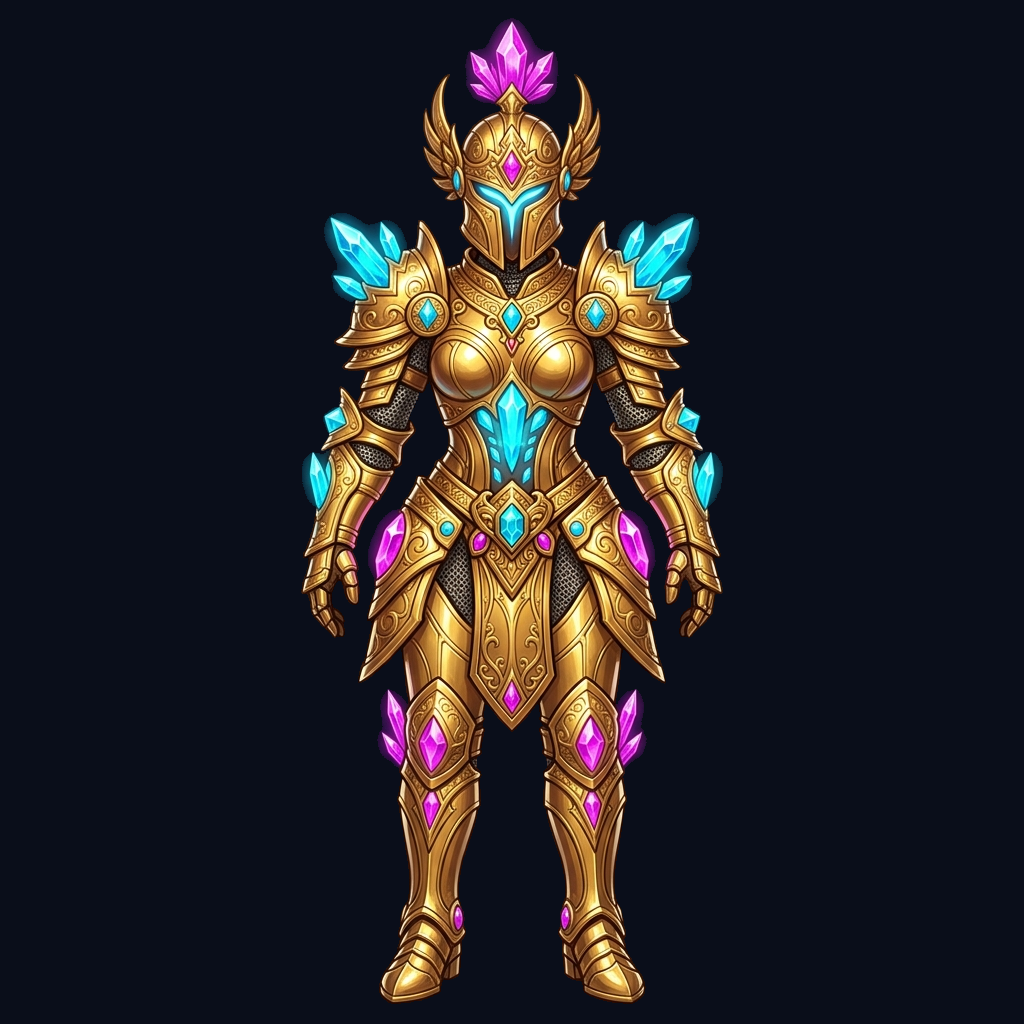
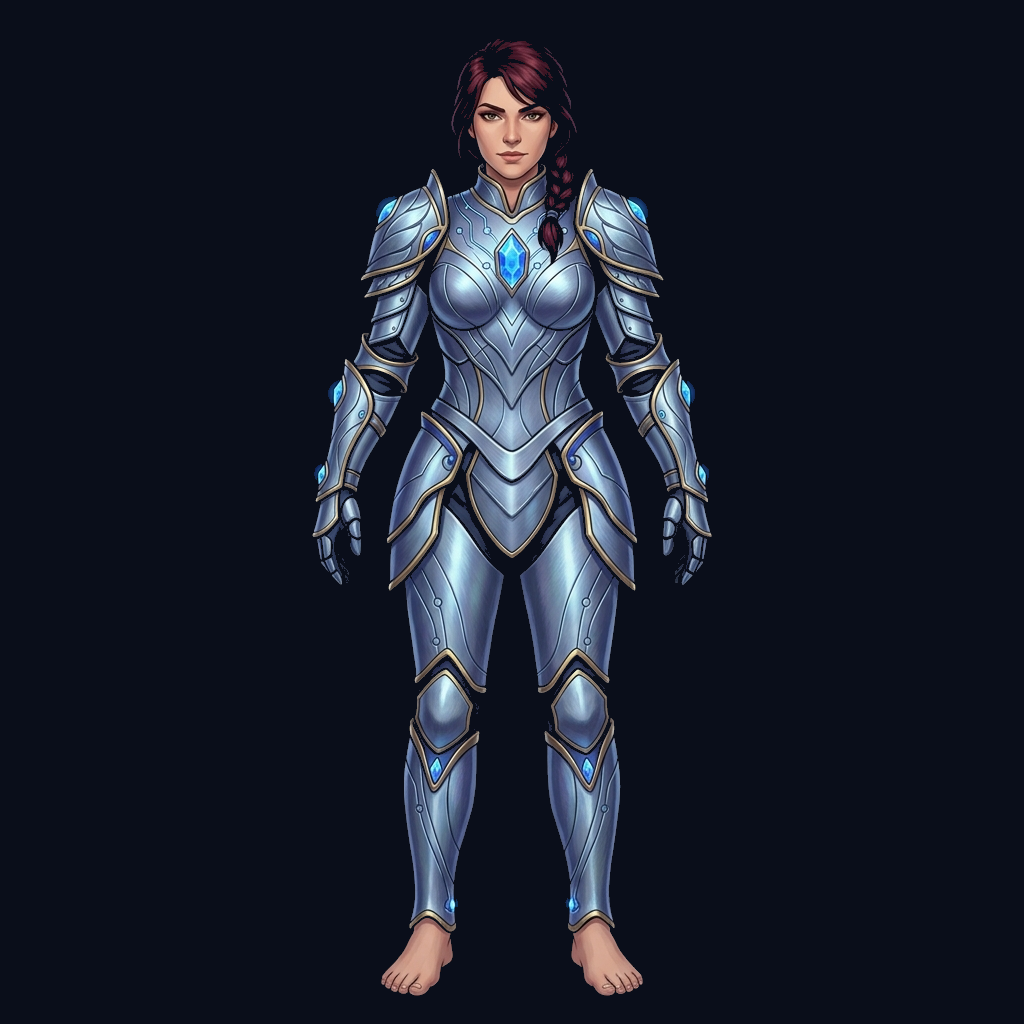
Feat/equip images fixes (#480)
* feat: redesign starter sets and swap level portraits for all characters

* feat: redesign all weapons and armors including custom female fits for Aquaria

* feat: update asset gallery armor rendering, recreate homeostase armor, and generate all remaining equipment assets

Changed region(s): [[0.2812, 0.0, 0.7188, 1.0]]

diff --git a/js/game.js b/js/game.js
@@ -1364,33 +1364,33 @@
       'Armadura Primeva':              'assets/items/armadura_primeva.png',
       'Armadura da Homeostase Perfeita':'assets/items/armadura_homeostase_perfeita.png',
       // Relíquias
-      'Anel Albuminúrico':             'assets/items/anel_albuminurico.jpg',
-      'Estetoscópio Básico':           'assets/images/estetoscopio_basico.png',
-      'Prancheta Clínica':             'assets/images/prancheta_clinica.png',
-      'Termômetro Digital':            'assets/images/termometro_digital.png',
-      'Sigilo KDIGO':                  'assets/items/sigilo_kdigo.jpg',
-      'Orbe da Cistatina':             'assets/items/orbe_cistatina.jpg',
-      'Relíquia do Título':            'assets/items/reliquia_titulo.jpg',
-      'Amuleto do Rim Imortal':        'assets/images/amuleto_rim.png',
+      'Anel Albuminúrico':             'assets/items/anel_albuminurico.png',
+      'Estetoscópio Básico':           'assets/items/estetoscopio_basico.png',
+      'Prancheta Clínica':             'assets/items/prancheta_clinica.png',
+      'Termômetro Digital':            'assets/items/termometro_digital.png',
+      'Sigilo KDIGO':                  'assets/items/sigilo_kdigo.png',
+      'Orbe da Cistatina':             'assets/items/orbe_cistatina.png',
+      'Relíquia do Título':            'assets/items/reliquia_titulo.png',
+      'Amuleto do Rim Imortal':        'assets/items/amuleto_rim.png',
       // Capacetes (Elmos / Máscaras)
-      'Touca Plissada':                'assets/images/elmo_filtrador.png',
-      'Máscara Tripla':                'assets/images/elmo_filtrador.png',
-      'Viseira Facial':                'assets/images/elmo_filtrador.png',
-      'Gorro de CTI':                  'assets/images/elmo_filtrador.png',
-      'Máscara N95':                   'assets/images/elmo_filtrador.png',
-      'Elmo do Filtrador Supremo':     'assets/images/elmo_filtrador.png',
+      'Touca Plissada':                'assets/items/touca_plissada.png',
+      'Máscara Tripla':                'assets/items/mascara_tripla.png',
+      'Viseira Facial':                'assets/items/viseira_facial.png',
+      'Gorro de CTI':                  'assets/items/gorro_cti.png',
+      'Máscara N95':                   'assets/items/mascara_n95.png',
+      'Elmo do Filtrador Supremo':     'assets/items/elmo_filtrador_supremo.png',
       // Luvas
-      'Luvas de Látex Reforçadas':     'assets/images/luvas_latex.png',
-      'Luvas Nitrílicas':              'assets/images/luvas_latex.png',
-      'Luva Estéril de Cirurgia':      'assets/images/luvas_latex.png',
-      'Manopla de Diálise':            'assets/images/luvas_latex.png',
-      'Manoplas da Homeostase':        'assets/images/luvas_latex.png',
+      'Luvas de Látex Reforçadas':     'assets/items/luvas_latex_reforcadas.png',
+      'Luvas Nitrílicas':              'assets/items/luvas_nitrilicas.png',
+      'Luva Estéril de Cirurgia':      'assets/items/luva_esteril_cirurgia.png',
+      'Manopla de Diálise':            'assets/items/manopla_dialise.png',
+      'Manoplas da Homeostase':        'assets/items/manopla_homeostase.png',
       // Botas
-      'Propés Descartáveis':           'assets/items/jaleco_plantao.jpg',
-      'Galocha de CTI':                'assets/items/jaleco_plantao.jpg',
-      'Tamanco Hospitalar':            'assets/items/jaleco_plantao.jpg',
-      'Botas da Pressão Controlada':   'assets/items/jaleco_plantao.jpg',
-      'Botas do Caminho Saudável':     'assets/items/jaleco_plantao.jpg'
+      'Propés Descartáveis':           'assets/items/propes_descartaveis.png',
+      'Galocha de CTI':                'assets/items/galocha_cti.png',
+      'Tamanco Hospitalar':            'assets/items/tamanco_hospitalar.png',
+      'Botas da Pressão Controlada':   'assets/items/botas_pressao_controlada.png',
+      'Botas do Caminho Saudável':     'assets/items/botas_caminho_saudavel.png'
     };
     const itemDescriptions = {
       "Bisturi de Plantão": "O bisturi básico de todo interno. Com ele, você corta através da confusão clínica e inicia sua jornada na nefrologia.",
@@ -1540,17 +1540,42 @@
         let cards = '';
         for (const it of items[slot]) {
           totalItems++;
-          const path = getItemIcon(it.n, slot);
+          const path = itemIcons[it.n] || defaultIcons[slot] || '';
           const r = rarMap[it.rar] || rarMap.common;
           const desc = itemDescriptions[it.n] || '<span class="ag-nodesc">(sem descrição)</span>';
           const hasIcon = !!itemIcons[it.n];
-          cards += `<div class="ag-card" style="border-color:${r.border};">${_imgTag(path, it.n)}
+
+          let imgHtml = '';
+          let pathHtml = '';
+          if (slot === 'armor' && path) {
+            const femalePath = path.replace(/\.(png|jpg|jpeg)$/, '_female.$1');
+            imgHtml = `
+              <div class="ag-armor-imgs-container" style="display:flex; border-bottom:1px solid rgba(255,255,255,0.06);">
+                <div style="flex:1; position:relative; border-right:1px solid rgba(255,255,255,0.06);">
+                  ${_imgTag(path, it.n)}
+                  <span style="position:absolute; bottom:2px; left:4px; font-size:9px; background:rgba(0,0,0,0.6); padding:1px 3px; border-radius:2px; color:#94a3b8;">Masc</span>
+                </div>
+                <div style="flex:1; position:relative;">
+                  ${_imgTag(femalePath, it.n + ' (Feminina)')}
+                  <span style="position:absolute; bottom:2px; left:4px; font-size:9px; background:rgba(0,0,0,0.6); padding:1px 3px; border-radius:2px; color:#c084fc;">Fem</span>
+                </div>
+              </div>`;
+            pathHtml = `
+              <div class="ag-path">Masc: ${path}${hasIcon ? '' : ' <span class="ag-nodesc">(padrão)</span>'}</div>
+              <div class="ag-path" style="margin-top:2px; border-top:none; padding-top:0;">Fem: ${femalePath}${hasIcon ? '' : ' <span class="ag-nodesc">(padrão)</span>'}</div>`;
+          } else {
+            const displayPath = getItemIcon(it.n, slot);
+            imgHtml = _imgTag(displayPath, it.n);
+            pathHtml = `<div class="ag-path">${displayPath}${hasIcon ? '' : ' <span class="ag-nodesc">(ícone padrão)</span>'}</div>`;
+          }
+
+          cards += `<div class="ag-card" style="border-color:${r.border};">${imgHtml}
             <div class="ag-card-body">
               <div class="ag-card-title">${it.n}</div>
               <span class="ag-rar" style="color:${r.color};background:${r.bg};border-color:${r.border};">${r.label}</span>
               <div class="ag-stats">⚔️ ${it.atk} · 🛡️ ${it.def} · 📚 ${it.kno} · 🍀 ${it.luck}</div>
               <div class="ag-desc">${desc}</div>
-              <div class="ag-path">${path}${hasIcon ? '' : ' <span class="ag-nodesc">(ícone padrão)</span>'}</div>
+              ${pathHtml}
             </div></div>`;
         }
         equipHtml += `<div class="ag-section">

diff --git a/sw.js b/sw.js
@@ -1,5 +1,5 @@
-// NefroQuest Service Worker — v11.99
-const CACHE = 'nefroquest-v11.99';
+// NefroQuest Service Worker — v12.00
+const CACHE = 'nefroquest-v12.00';
 
 // Apenas assets estáticos que raramente mudam (HTML não entra aqui — usa network-first)
 const STATIC_ASSETS = [

diff --git a/scratch/clean_image.py b/scratch/clean_image.py
@@ -1,0 +1,52 @@
+import sys
+import os
+from PIL import Image
+
+def clean_background(image_path, output_path):
+    img = Image.open(image_path).convert("RGB")
+    width, height = img.size
+    pixels = img.load()
+    
+    # Target color: #0a0e1a => (10, 14, 26)
+    target_color = (10, 14, 26)
+    
+    # BFS Queue
+    seeds = [(10, 10), (width - 11, 10), (10, height - 11), (width - 11, height - 11)]
+    ref_color = pixels[10, 10]
+    
+    queue = list(seeds)
+    visited = set(seeds)
+    
+    threshold = 45  # Threshold for color distance
+    
+    def color_dist(c1, c2):
+        return sum((a - b)**2 for a, b in zip(c1, c2))**0.5
+        
+    while queue:
+        x, y = queue.pop(0)
+        pixels[x, y] = target_color
+        
+        for dx, dy in [(-1, 0), (1, 0), (0, -1), (0, 1)]:
+            nx, ny = x + dx, y + dy
+            if 0 <= nx < width and 0 <= ny < height:
+                if (nx, ny) not in visited:
+                    curr_color = pixels[nx, ny]
+                    if color_dist(curr_color, ref_color) < threshold:
+                        visited.add((nx, ny))
+                        queue.append((nx, ny))
+                        
+    # Trim 4px outer border
+    border_px = 4
+    for x in range(width):
+        for y in range(height):
+            if x < border_px or x >= width - border_px or y < border_px or y >= height - border_px:
+                pixels[x, y] = target_color
+                
+    img.save(output_path, "PNG")
+    print(f"Cleaned image saved to {output_path}")
+
+if __name__ == "__main__":
+    if len(sys.argv) < 3:
+        print("Usage: python clean_image.py <input_path> <output_path>")
+    else:
+        clean_background(sys.argv[1], sys.argv[2])